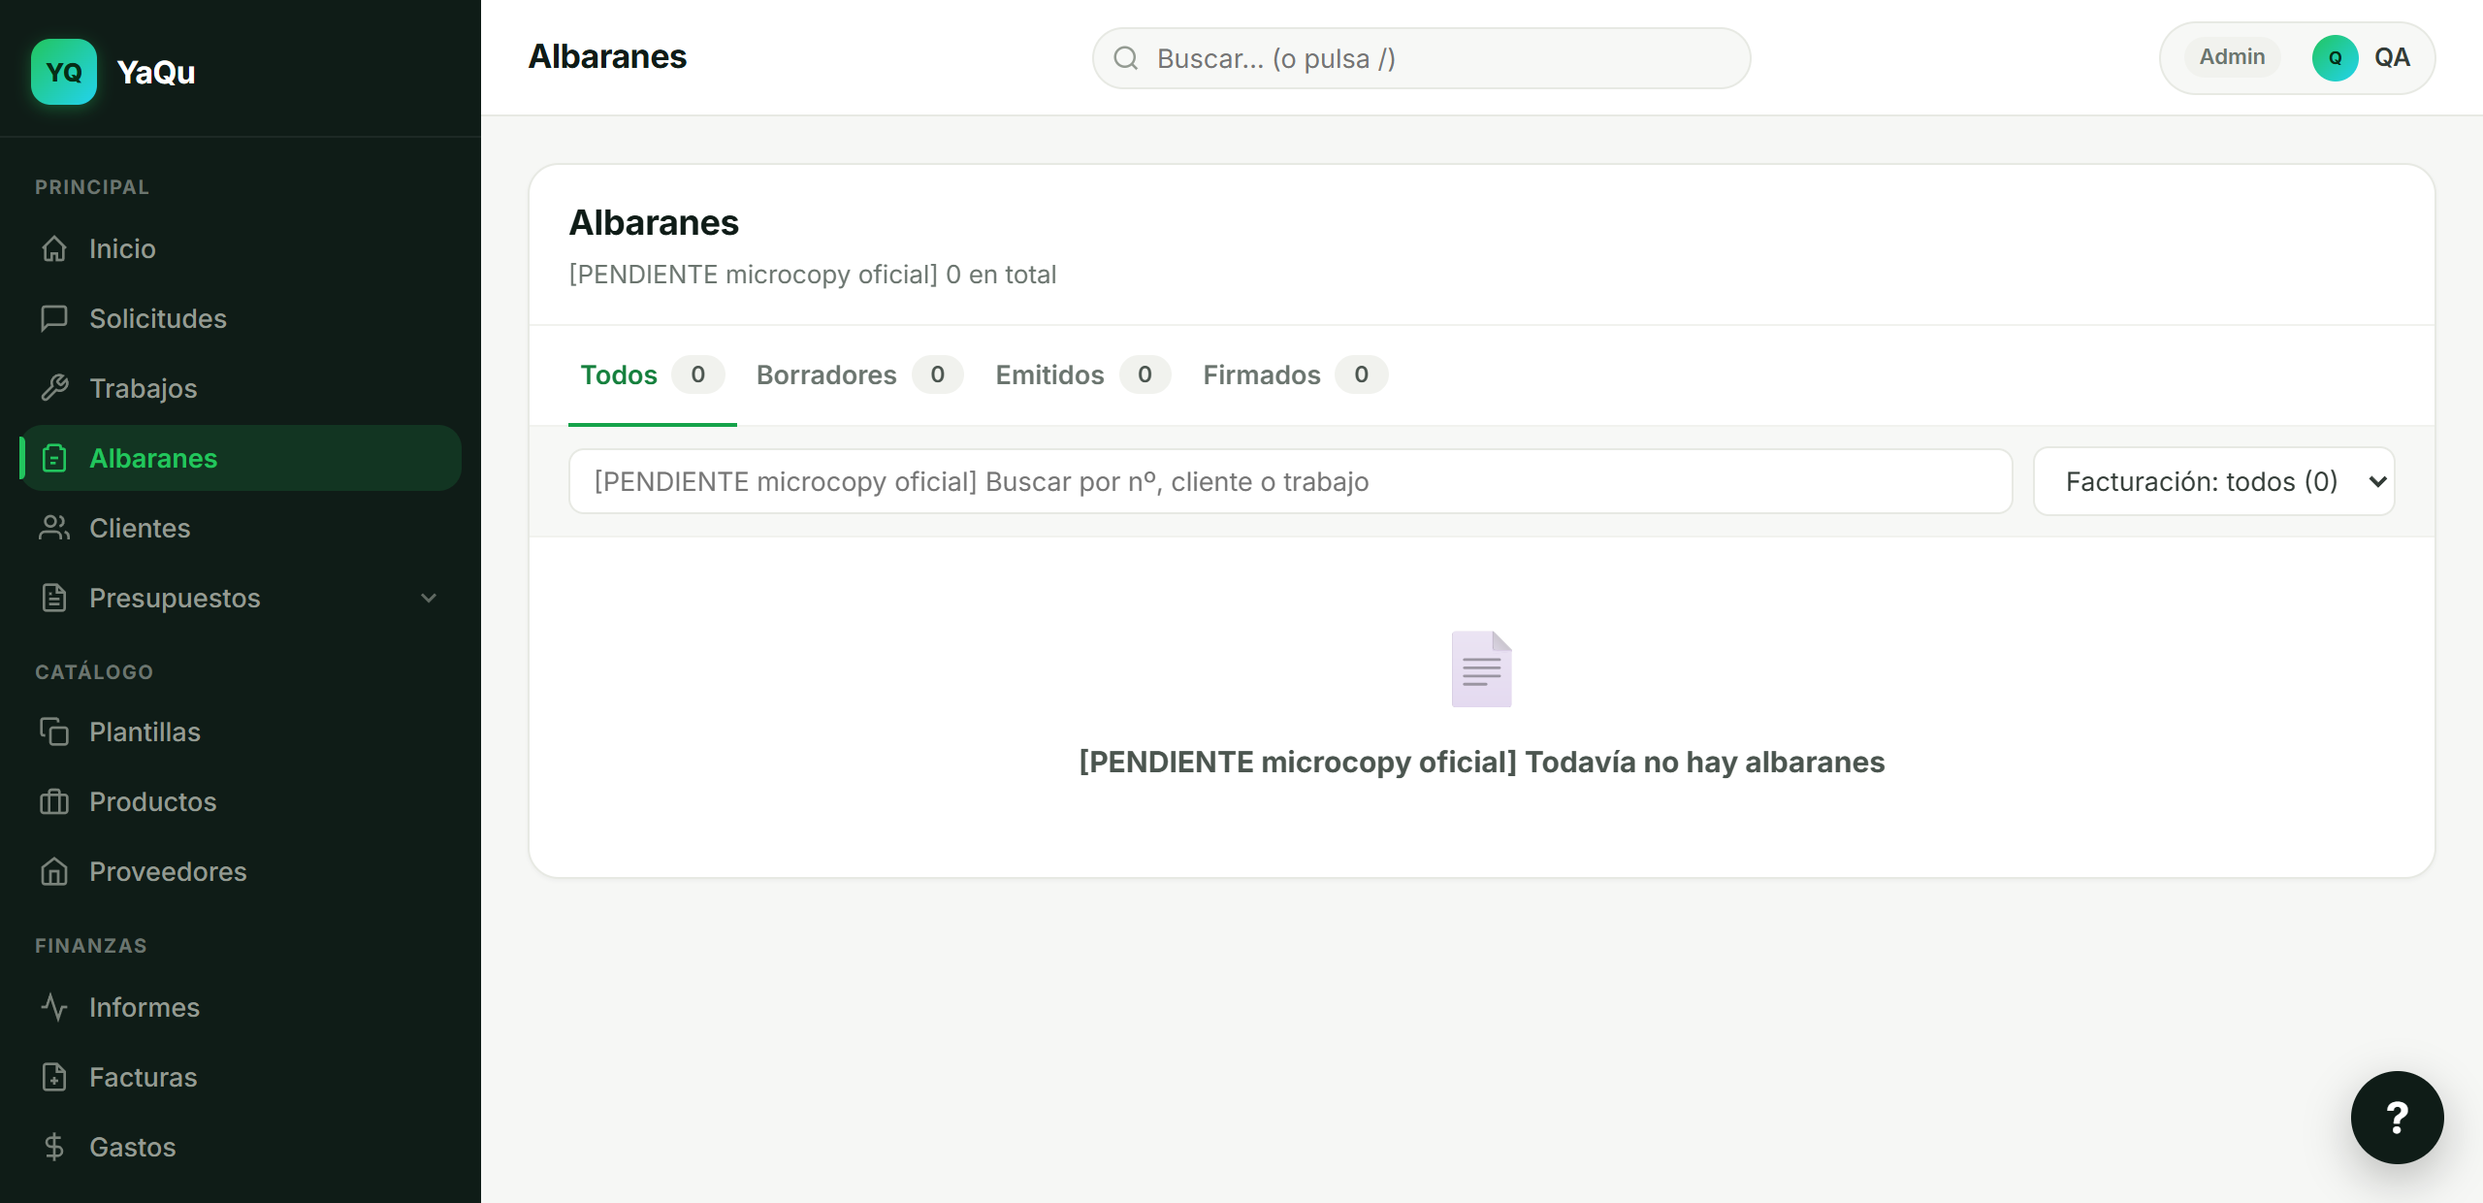
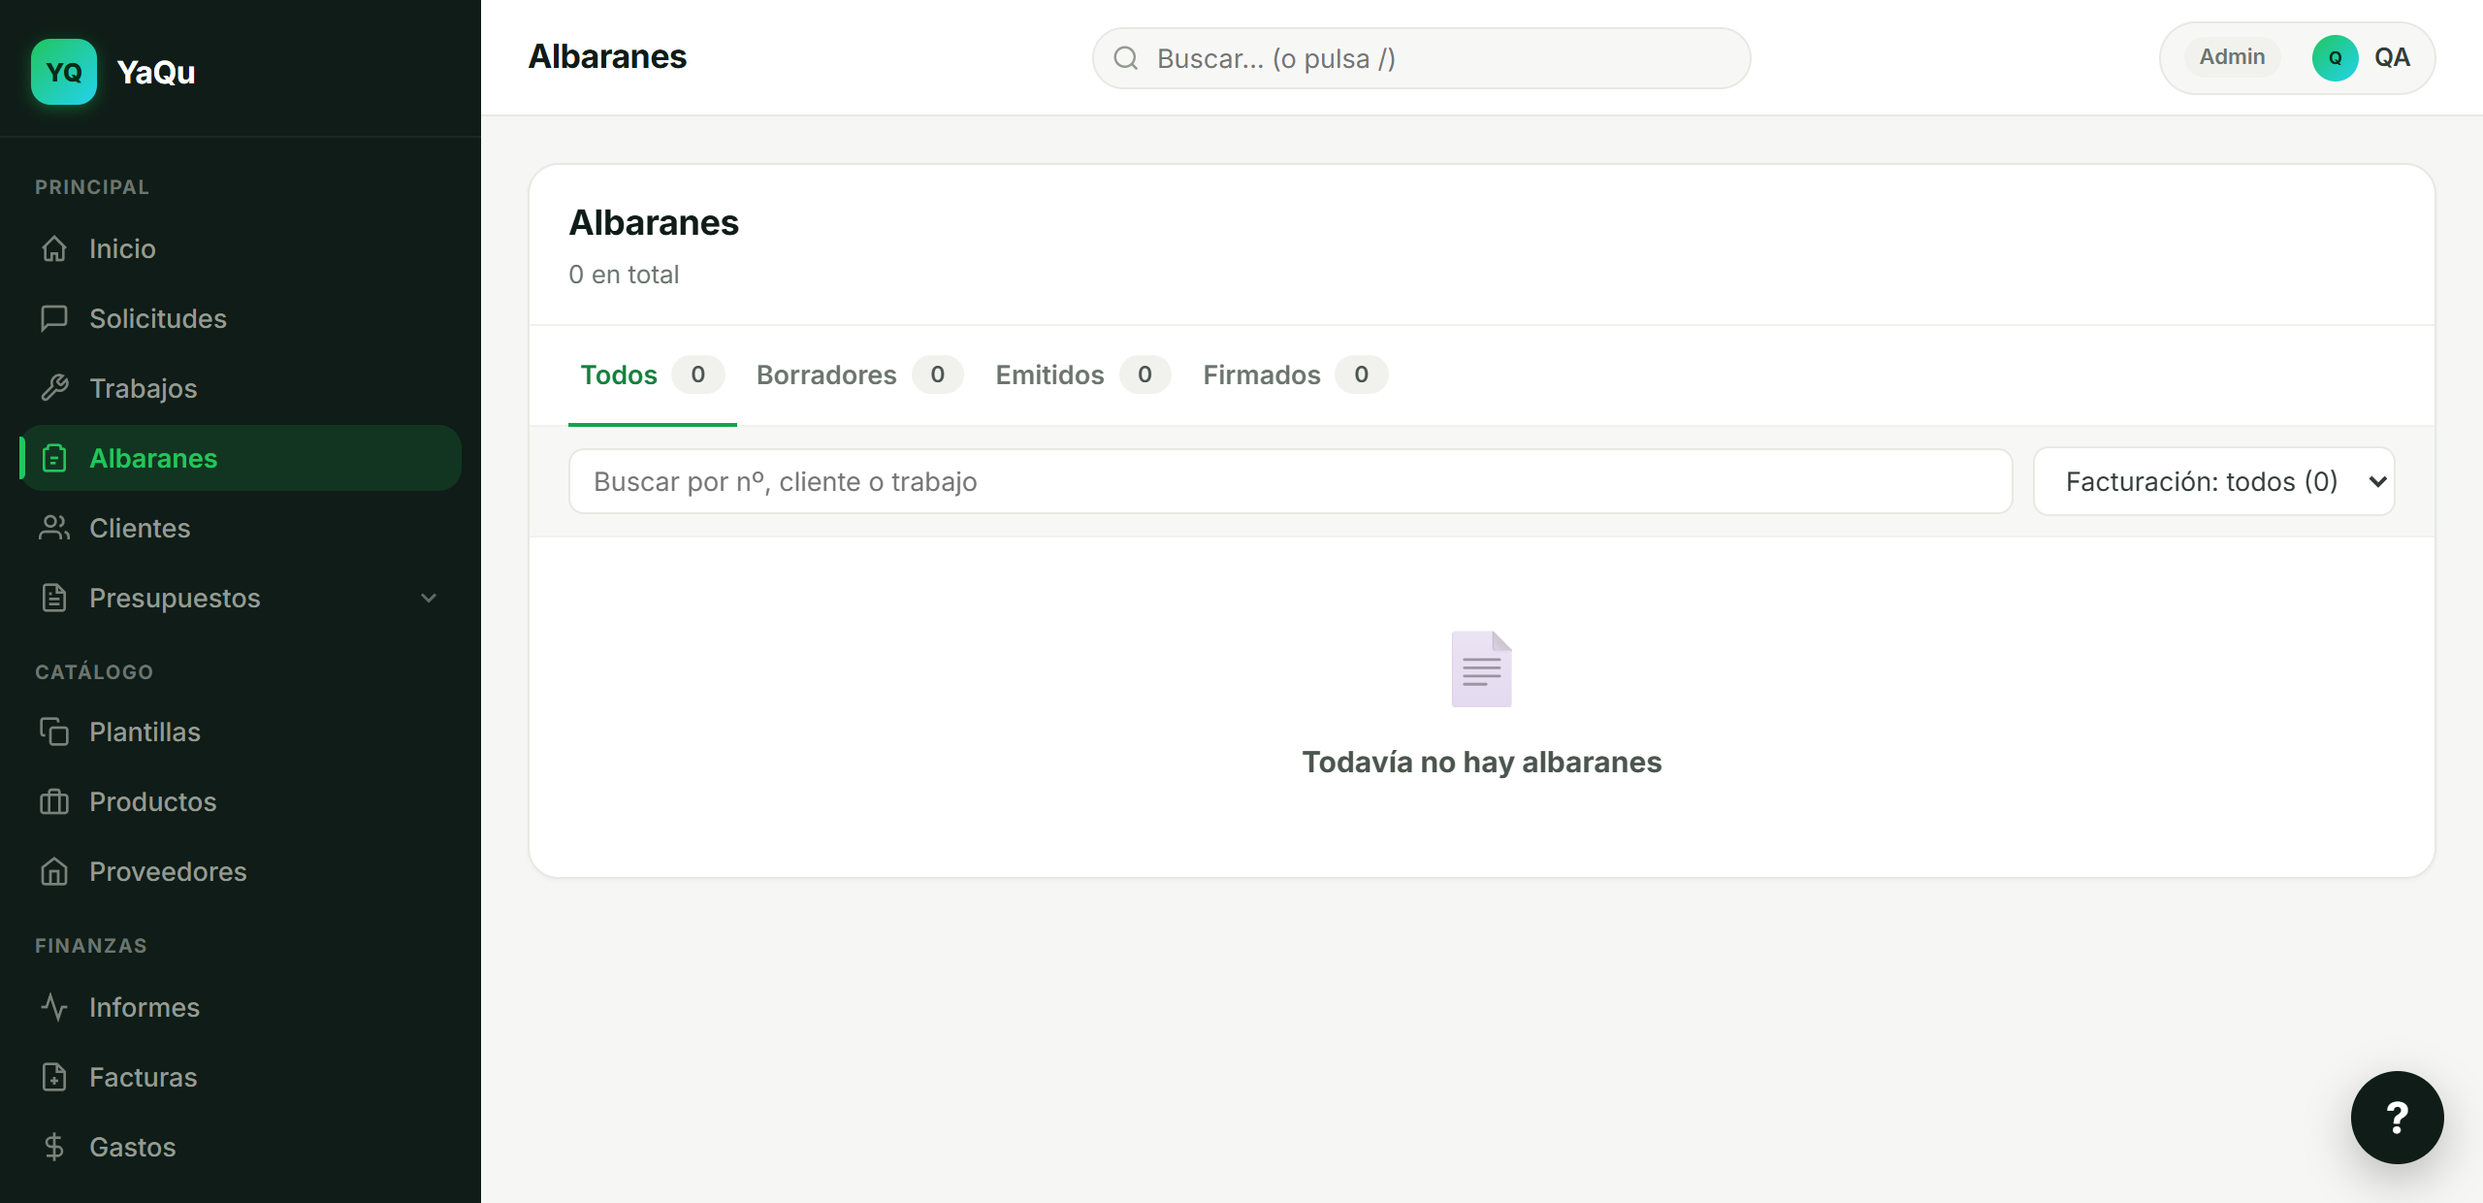
copy(SCRUM-301): microcopy FIRMADA -- las cinco ranuras que faltaban
El asesor firmo las cinco de estado, asi que en esta pantalla ya NO queda ni un
marcador. Hasta ahora, cualquier despliegue lo enseñaba en pantalla: es lo mismo
que le paso a SCRUM-303 hace un rato.

DOS DECISIONES SUYAS QUE CAMBIAN LO QUE YO PROPUSE:

  · El aviso de error se acorta. Yo propuse "No se han podido cargar los
    albaranes. No hay ningun numero que enseñar: vuelve a intentarlo." y queda
    en "No se han podido cargar los albaranes. Vuelve a intentarlo." Mi
    preocupacion era buena -que el error no se lea como "no tienes albaranes"-
    pero "no se han podido cargar" YA nombra la carga, no el inventario.
  · El vacio-con-filtros se elige LEYENDO LA RAMA. La condicion es
    `filas.length === 0 ? ④ : ⑤`, y ⑤ se alcanza cuando visibles() no devuelve
    nada -- que descarta por TRES vias: la pestaña de estado, el filtro de
    facturacion y el buscador (albaranesView.js:245-253). Por eso el texto es
    "Ningun albaran coincide con los filtros" y no "...con esa busqueda": quien
    llega desde un desplegable, sin escribir nada, leeria una frase que le
    miente.

EL GUARD ESTA ATADO A LA RANURA, NO AL FICHERO. Lee cada texto del AST en el
sitio exacto donde se usa (aviso.textContent, el sufijo del subtitle,
buscador.placeholder, el setAttribute del aria-label y CADA RAMA del ternario de
los vacios). Buscar la cadena por el fuente habria dado verde con los dos vacios
INTERCAMBIADOS -- las dos frases siguen escritas, palabra por palabra -- y eso
[…]

diff --git a/public/dashboard/js/albaranesView.js b/public/dashboard/js/albaranesView.js
@@ -28,14 +28,24 @@
 // «No tienes ninguno» sigue siendo una respuesta legítima y tiene su propio estado vacío.
 //
 // ─────────────────────────────────────────────────────────────────────────────────────────
-// MICROCOPY: APROBADA POR EL ASESOR EL 5-AGO-2026 (regla 30)
+// MICROCOPY: LAS NUEVE RANURAS, FIRMADAS POR EL ASESOR EL 5-AGO-2026 (regla 30)
 //
-// Se entregó con `[PENDIENTE microcopy oficial]` en cada rótulo y el asesor aprobó las cuatro
-// ranuras: tres tal cual y una con retoque («Facturación: TODOS», no «todas», porque concuerda con
-// «albaranes» — que es lo que se cuenta; «todas» arrastra a pensar en facturas, que es justo el
-// objeto que este filtro NO cuenta). El marcador se retira y el guard cambia de trabajo: ahora
-// compara ranura a ranura contra el texto aprobado, porque retocar copy aprobada es decisión del
-// asesor y no un detalle de implementación.
+// Se entregó con `[PENDIENTE microcopy oficial]` en cada rótulo. El asesor firmó primero las cuatro
+// de estructura —sección, pestañas, columnas y filtro, ésta con retoque («Facturación: TODOS», no
+// «todas», porque concuerda con «albaranes», que es lo que se cuenta; «todas» arrastra a pensar en
+// facturas, el objeto que este filtro NO cuenta)— y después las cinco de estado —aviso de error,
+// recuento, buscador (sus DOS cadenas) y los dos vacíos—.
+//
+// El guard cambió de trabajo con la primera firma y ahora cubre las nueve: compara **ranura a
+// ranura** contra el texto firmado, atándolo a SU sitio en el código. Retocar copy firmada es
+// decisión del asesor, no un detalle de implementación.
+//
+// Dos de esos textos existen para no confundirse entre sí, y por eso se escribieron a la vez:
+//   · el AVISO DE ERROR nombra la CARGA («no se han podido cargar»), no el inventario, para que un
+//     fallo no se lea nunca como «no tienes albaranes»;
+//   · los dos VACÍOS separan «no tienes» de «no encuentro»: el segundo dice «los filtros» en plural
+//     porque su rama se alcanza por TRES vías —la pestaña de estado, el filtro de facturación y el
+//     buscador—, así que hablar de «esa búsqueda» mentiría a quien solo tocó un desplegable.
 //
 // ⚠ LAS ETIQUETAS DE LAS PESTAÑAS SE DERIVAN DEL VALOR, NO SE ESCRIBEN. Un mapa
 // `{ borrador: 'Borradores', … }` sería otra vez la lista a mano que este fichero evita: el día que
@@ -49,12 +59,14 @@
 (function () {
   const TODOS = '__todos__'; // valor de pestaña, no un estado del modelo
 
-  // Las CUATRO ranuras aprobadas son: el nombre de la sección, las pestañas, las columnas y el
-  // filtro de facturación. El resto de textos de esta pantalla —el aviso de error, el subtítulo del
-  // recuento, el buscador y los dos estados vacíos— NO se sometieron y siguen con marcador: son
-  // ranuras distintas y aprobarlas por mi cuenta sería inventarme copy oficial (regla 30).
-  const MARCA = '[PENDIENTE microcopy oficial]';
-  function rotulo(borrador) { return MARCA + ' ' + borrador; }
+  // Ya NO queda marcador en esta pantalla: las cuatro primeras ranuras se aprobaron el 5-ago-2026 y
+  // las cinco restantes —aviso de error, recuento, buscador (sus DOS cadenas) y los dos estados
+  // vacíos— quedaron firmadas justo después. El helper `rotulo()` desaparece con ellas: mantenerlo
+  // sin usuarios invitaría a marcar texto nuevo en vez de someterlo.
+  //
+  // ⚠ `'Cargando…'` (más abajo) NO es de este ticket y NO entra en el guard: es la cadena que ya
+  // usa `invoicesView.js` en tres sitios, copiada tal cual. Someterla aquí la convertiría en texto
+  // oficial de pantallas que este ticket no toca.
 
   /** Plural español del valor + mayúscula inicial: `borrador` → `Borradores`, `emitido` → `Emitidos`. */
   function etiquetaEstado(valor) {
@@ -137,7 +149,7 @@
       const aviso = document.createElement('div');
       aviso.className = 'alert error';
       aviso.style.cssText = 'margin:16px';
-      aviso.textContent = rotulo('No se han podido cargar los albaranes. No hay ningún número que enseñar: vuelve a intentarlo.');
+      aviso.textContent = 'No se han podido cargar los albaranes. Vuelve a intentarlo.';
       body.appendChild(aviso);
       const detalle = document.createElement('p');
       detalle.style.cssText = 'margin:0 16px 16px;font-size:12px;color:var(--muted)';
@@ -155,7 +167,7 @@
         return;
       }
 
-      subtitle.textContent = rotulo(contadores.total + ' en total');
+      subtitle.textContent = contadores.total + ' en total';
       body.innerHTML = '';
 
       let estadoActivo = TODOS;
@@ -194,8 +206,8 @@
       const buscador = document.createElement('input');
       buscador.className = 'input';
       buscador.type = 'search';
-      buscador.placeholder = rotulo('Buscar por nº, cliente o trabajo');
-      buscador.setAttribute('aria-label', rotulo('Buscar albaranes'));
+      buscador.placeholder = 'Buscar por nº, cliente o trabajo';
+      buscador.setAttribute('aria-label', 'Buscar albaranes');
       buscador.style.cssText = 'min-width:180px;flex:1';
       buscador.addEventListener('input', () => { busqueda = buscador.value; activar(); });
       toolbar.appendChild(buscador);
@@ -267,7 +279,7 @@
           // «No hay ninguno» NUNCA se pinta cuando la consulta falla: ese camino termina en
           // `pintarError` y no llega hasta aquí.
           vacio.innerHTML = '<div class="empty-state-icon">📄</div><div class="empty-state-title">' +
-            esc(rotulo(filas.length === 0 ? 'Todavía no hay albaranes' : 'Ningún albarán con ese filtro')) +
+            esc(filas.length === 0 ? 'Todavía no hay albaranes' : 'Ningún albarán coincide con los filtros') +
             '</div>';
           return;
         }

diff --git a/docs/master/SCRUM-301.md b/docs/master/SCRUM-301.md
@@ -2,9 +2,14 @@
 
 **Fecha:** 5-ago-2026 · **Carril:** A (producto — la pregunta del lunes) · **Gate:** sin gate, corre en `npm test`
 
-**Medido contra:** `origin/main` = `56874623baa406a0e8e38b93c236f7a4740b1e6a` · 2026-08-05T16:38:08+01:00
+**Medido contra:** `origin/main` = `d5ac9761da139bf9b6de3c808d7c990aa6b82157` · 2026-08-05T17:06:21+01:00
 
-**Tanda:** 1760 tests, 1693 pass, 0 fail, 67 skipped (los 67 son los gateados de staging)
+> **Dos vueltas, dos anclas.** El listado se midió y se construyó contra `56874623` (16:38) y entró
+> en `main` por el PR #469. Las **cinco ranuras de microcopy firmadas después** se midieron contra
+> el `main` RESULTANTE, `d5ac9761`, que ya lleva ese listado dentro. El ancla de arriba es la
+> segunda, que es la que sigue viva.
+
+**Tanda:** 1762 tests, 1695 pass, 0 fail, 67 skipped (los 67 son los gateados de staging)
 
 ## El defecto
 
@@ -99,7 +104,7 @@ que mencione `merchantId` por el motivo que sea (medido en SCRUM-348). Aquí se 
 
 ## Verificado en rojo
 
-Dieciséis sabotajes, cada uno aplicado, compilado, corrido y revertido con verificación byte a byte:
+Veintitrés sabotajes, cada uno aplicado, compilado, corrido y revertido con verificación byte a byte:
 
 | Se quita la cosa vigilada | Sale rojo |
 | --- | --- |
@@ -117,8 +122,10 @@ Dieciséis sabotajes, cada uno aplicado, compilado, corrido y revertido con veri
 | El filtro vuelve a decir «todas» | la copy aprobada, ranura a ranura |
 | La regla de plural deja de dar «Borradores» | la copy aprobada |
 | Se reescribe una columna aprobada | la copy aprobada |
-| Un rótulo SIN aprobar pierde su marcador | el guard de lo no sometido |
 | El menú vuelve a llevar marcador sobre texto aprobado | la copy aprobada |
+| **Una letra en CADA una de las cinco ranuras firmadas** (seis cadenas) | la ranura tocada, **nombrándola** |
+| El texto DESCARTADO de ⑤ en su ranura | ⑤ `vacioConFiltros` |
+| **Los dos vacíos INTERCAMBIADOS** (las dos frases siguen en el fichero) | ④ `vacioSinAlbaranes` |
 
 🔴 **El de «la vista deja de cargarse» encontró un guard incapaz de fallar.** Comprobaba `assert.match(index,
 /albaranesView\.js/)`, así que **comentar la etiqueta `<script>` lo dejaba en verde**: el texto
@@ -187,9 +194,34 @@ del español (vocal → +s, consonante → +es), que produce exactamente `Borrad
 Firmados`. Un mapa `{ borrador: 'Borradores', … }` habría reintroducido la lista a mano que el resto
 del fichero evita.
 
-**Los cinco textos que no se sometieron siguen con marcador** (aviso de error, recuento del
-subtítulo, buscador y los dos estados vacíos): aprobarlos por mi cuenta sería inventarme copy
-oficial, y hay un guard que lo impide.
+**Las cinco ranuras restantes se firmaron justo después** (aviso de error, recuento del subtítulo,
+buscador —sus DOS cadenas— y los dos estados vacíos), así que en esta pantalla **ya no queda ni un
+marcador**. Dos decisiones del asesor sobre esas cinco merecen quedar escritas:
+
+* **El aviso de error se acortó.** Yo propuse «No se han podido cargar los albaranes. No hay ningún
+  número que enseñar: vuelve a intentarlo.» y quedó en **«No se han podido cargar los albaranes.
+  Vuelve a intentarlo.»** Mi preocupación era buena —que el error no se lea como «no tienes
+  albaranes»— pero **«no se han podido cargar» ya nombra la carga, no el inventario**: la coletilla
+  añadía una explicación que un fontanero con el móvil en la mano no necesita leer.
+* **El vacío-con-filtros se eligió LEYENDO LA RAMA**, no por gusto. La condición es
+  `filas.length === 0 ? ④ : ⑤` y ⑤ se alcanza cuando `visibles()` no devuelve nada, que descarta por
+  **tres vías independientes**: la pestaña de estado, el filtro de facturación y el buscador
+  ([albaranesView.js:245-253](../../public/dashboard/js/albaranesView.js#L245-L253)). Por eso el
+  texto firmado es **«Ningún albarán coincide con los filtros»** y no «…con esa búsqueda»: quien
+  llega ahí desde un desplegable, sin haber escrito nada, leería una frase que le miente.
+
+### El guard de las cinco está atado a la RANURA, no al fichero
+
+Lee el texto **del AST, en el sitio exacto donde se usa** (`aviso.textContent`, el sufijo del
+`subtitle`, `buscador.placeholder`, el `setAttribute('aria-label', …)` y cada rama del ternario de
+los vacíos). Buscar la cadena por el fuente habría dado verde con **los dos vacíos intercambiados**
+—las dos frases siguen escritas, palabra por palabra—, y eso no es una errata: le diría «todavía no
+hay albaranes» a quien tiene doce y filtró mal.
+
+Y el propio guard se cazó a sí mismo al escribirlo: la primera versión del assert «ya no queda
+marcador» miró el fichero entero y salió roja sola, porque **la cabecera de la vista cuenta que se
+entregó con el marcador**. Es el clásico de la casa (SCRUM-176/168/3/193); ahora mira solo los
+literales, que son los que llegan a una pantalla.
 
 Efecto medido de la aprobación, visible en las capturas: con el marcador, el prefijo empujaba
 `Cliente`, `Trabajo` y `Estado` fuera del ancho visible — incluida la columna que es la ventaja del
@@ -221,6 +253,6 @@ ticket. Con el texto aprobado, **las seis caben**.
 * `src/core/http/adminRouteDeclarations.ts` — por qué esta ruta NO está en TECNICO_ALLOWED.
 * `src/core/http/adminOnlyRoutes.ts` — su 403 con sesión de técnico, exigido en la tanda gateada.
 * `public/sw.js` — el script nuevo en el shell del service worker.
-* `tests/scrum301-albaranes-seccion.test.mjs` — **nuevo**, 16 tests.
+* `tests/scrum301-albaranes-seccion.test.mjs` — **nuevo**, 18 tests.
 * `tests/scrum302-patron-albaran.test.mjs` — su guard del derivado, ahora contra el valor compilado.
-* `docs/capturas/scrum-301/` — cuatro capturas AB6 y su README.
+* `docs/capturas/scrum-301/` — seis capturas AB6 (las de error y vacío también a 390 px) y su README.

diff --git a/docs/capturas/scrum-301/README.md b/docs/capturas/scrum-301/README.md
@@ -28,20 +28,22 @@ Ahora el suelo también falla si hay un `.modal-overlay` / `#onboarding-backdrop
 | `scrum301-listado-1280.png` | Escritorio: sección propia en el menú, 4 pestañas con contador (todos 5 · borrador 1 · emitido 2 · firmado 2), buscador, filtro de facturación y la tabla. |
 | `scrum301-listado-390.png` | Móvil 390 (gama media): la tabla en modo tarjetas (`table--cards-mobile`). |
 | `scrum301-error-1280.png` | **La captura que sostiene el ticket**: con la consulta caída NO hay pestañas, NO hay contadores y NO hay ceros — solo el aviso en rojo. |
+| `scrum301-error-390.png` · `scrum301-vacio-390.png` | Las dos pantallas que enseñan las cinco ranuras firmadas, a 390 px. |
 | `scrum301-vacio-1280.png` | Cero albaranes de verdad: pestañas a 0 y estado vacío. Es el contraste del anterior: el mismo número con significado opuesto, y se distinguen en pantalla. |
 
-## Microcopy: aprobada el 5-ago-2026 — y lo que la aprobación arregló
+## Microcopy: las NUEVE ranuras firmadas
 
 La primera tanda de capturas se hizo con `[PENDIENTE microcopy oficial]` en cada rótulo, y el
 marcador **empujaba `Cliente`, `Trabajo` y `Estado` fuera del ancho visible** — incluida la columna
 que es la ventaja del ticket. No era maquetación: era el coste del marcador.
 
-El asesor aprobó las cuatro ranuras (tres tal cual y el filtro con retoque, «todos» en vez de
-«todas») y estas capturas están rehechas con el texto definitivo: **las seis columnas caben y
-`Trabajo` se ve enlazada**.
+El asesor firmó primero las cuatro de estructura (el filtro con retoque: «todos», no «todas») y
+después las cinco de estado. **Estas capturas están rehechas con el texto definitivo y ya no queda
+ni un marcador en pantalla**: las seis columnas caben y `Trabajo` se ve enlazada.
 
-Siguen con marcador los cinco textos que NO se sometieron —el aviso de error, el recuento del
-subtítulo, el buscador y los dos estados vacíos—, y se ven así a propósito en las capturas.
+Las dos de 390 px existen porque son las que enseñan las cinco últimas ranuras: el aviso de error
+—que nombra la CARGA y no el inventario, para que un fallo no se lea como «no tienes albaranes»— y
+el vacío con su recuento, su buscador y su «Todavía no hay albaranes».
 ## Checklist AB6
 
 | Punto | Estado |
